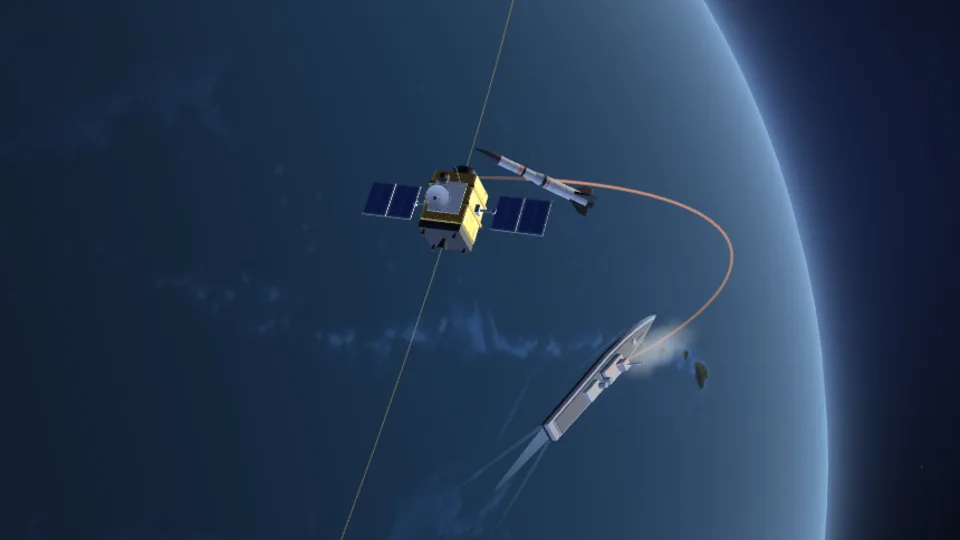
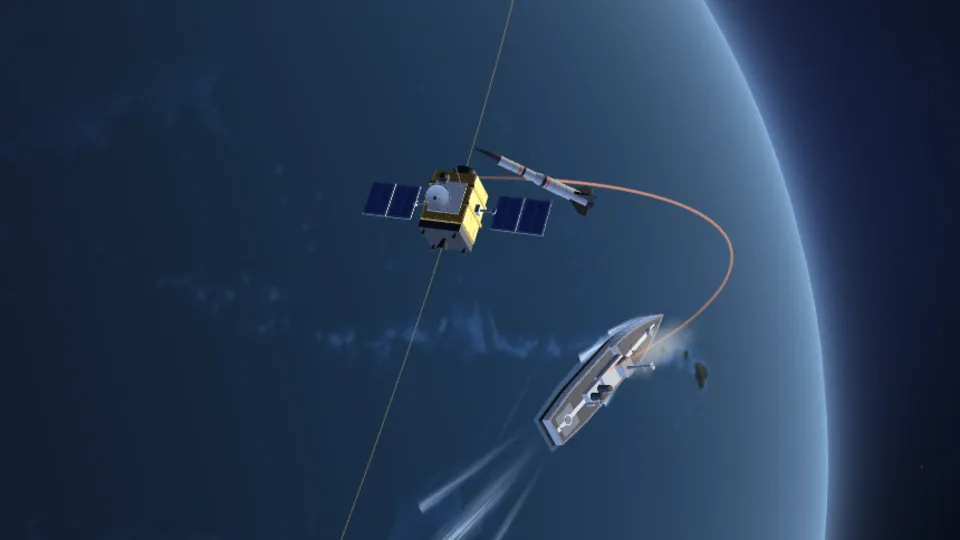
Warship tuned (darker hull, softer foam); posters of burnt-frost and shakti regenerated
Claude-Session: https://claude.ai/code/session_01RyENr88bMjMEvXCVeqzctV

Changed region(s): [[0.5, 0.563, 0.6875, 0.8593], [0.4375, 0.8593, 0.5312, 1.0]]

diff --git a/counterspace/src/scenes/gl-models.js b/counterspace/src/scenes/gl-models.js
@@ -905,8 +905,8 @@ export const modelMethods = {
       TOP = 0.0052, // the main deck
       FORE = 0.0072; // the forecastle deck, raised at the bow
     const keel = this._mat(0x10151f),
-      side = this._mat(0x5a6577, { roughness: 0.6 }),
-      rim = this._mat(0x9aa5b8),
+      side = this._mat(0x485366, { roughness: 0.6 }),
+      rim = this._mat(0x7b869a),
       deckMat = this._mat(0x394254),
       stripe = this._mat(0xe9edf5, { emissive: 0x2a3140 }),
       light = this._mat(0xd3d9e5),
@@ -977,15 +977,15 @@ export const modelMethods = {
     const ring = new T.ShapeGeometry(plan(Z0 - 0.002, Z1 + 0.003, 0, 1.36));
     ring.rotateX(Math.PI / 2);
     ring.translate(0, Y * 0.6, 0);
-    g.add(new T.Mesh(ring, new T.MeshBasicMaterial({ color: 0xcfe0ff, transparent: true, opacity: 0.26, depthWrite: false, blending: T.AdditiveBlending, side: T.DoubleSide })));
+    g.add(new T.Mesh(ring, new T.MeshBasicMaterial({ color: 0xcfe0ff, transparent: true, opacity: 0.14, depthWrite: false, blending: T.AdditiveBlending, side: T.DoubleSide })));
     // bow wave: bright ribbons that run back along each side from the stem and spread
     [-1, 1].forEach((sd) => {
-      strip(sd * 0.0014, 0.0435, sd * 0.0105, -0.004, 0.0034, 0.0052, 0.9);
-      strip(sd * 0.0020, 0.0415, sd * 0.0090, 0.016, 0.0024, 0.0032, 0.8);
+      strip(sd * 0.0014, 0.0435, sd * 0.0105, -0.004, 0.0034, 0.0052, 0.8);
+      strip(sd * 0.0020, 0.0415, sd * 0.0090, 0.016, 0.0024, 0.0032, 0.65);
     });
     // churned wake astern, as wide as the transom, and the V arms that diverge beyond it
-    strip(0, Z0 + 0.001, 0, -0.112, 0.0108, 0.0135, 0.95);
-    [-1, 1].forEach((sd) => strip(sd * 0.0060, Z0 + 0.002, sd * 0.0165, -0.098, 0.0036, 0.0058, 0.62));
+    strip(0, Z0 + 0.001, 0, -0.112, 0.0108, 0.0135, 0.75);
+    [-1, 1].forEach((sd) => strip(sd * 0.0060, Z0 + 0.002, sd * 0.0165, -0.098, 0.0036, 0.0058, 0.45));
     g.position.y = 0;
     g.userData.tintMat = side;
     g.quaternion.setFromUnitVectors(new T.Vector3(0, 1, 0), new T.Vector3(...norm(pos)));
